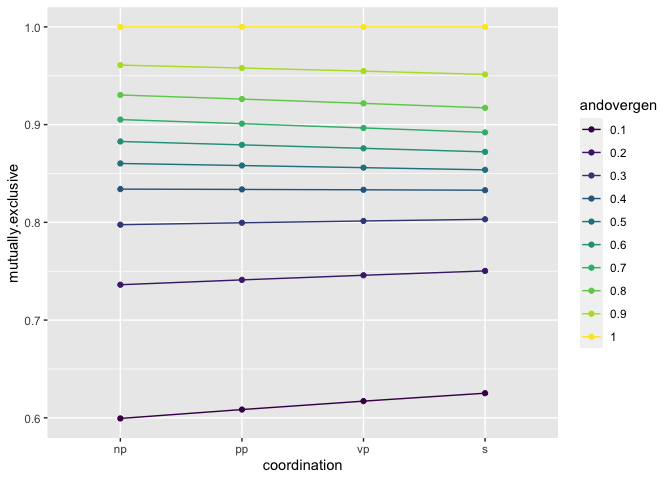
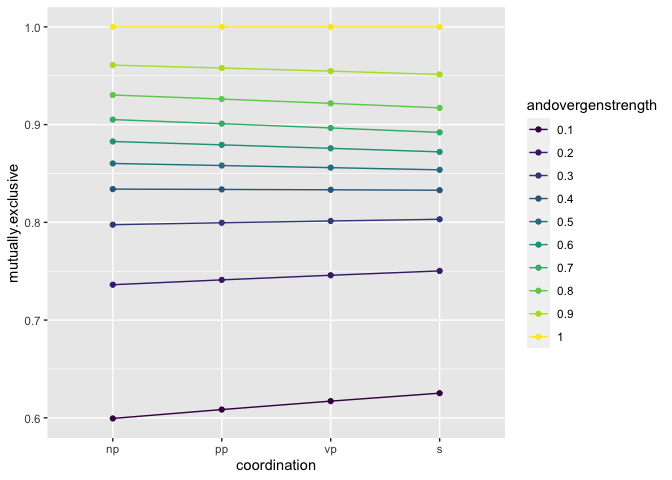
Update wording for lifted coordination model simulations

diff --git a/models/elephants-coord-lifted-simulations.md b/models/elephants-coord-lifted-simulations.md
@@ -26,7 +26,7 @@ and the prior on utterance structure in the form of `andOverGenStrength`
 We assume that there is no cost of movement (`andOverGenStrength` is a
 fixed value for all coordination levels).
 
-Varying the cost of the utterance:
+Varying the cost multiplier:
 
 ![](elephants-coord-lifted-simulations_files/figure-gfm/case1.cost-1.png)<!-- -->
 
@@ -46,9 +46,11 @@ Varying the baseline belief in the AND \> GEN scope:
 
 ![](elephants-coord-lifted-simulations_files/figure-gfm/case1.andovergen-1.png)<!-- -->
 
-The trend is monotonically decreasing for high values of `andOverGen`
-(high likelihood of inverse scope), and monotonically increasing for low
-values of `andOverGen` (low likelihood of inverse scope).
+The trend is monotonically decreasing for high values of
+`andOverGenStrength` (high likelihood of inverse scope for coordination
+levels below S), and monotonically increasing for low values of
+`andOverGenStrength` (low likelihood of inverse scope for coordination
+levels below S).
 
 ## Case 2: movement is costly
 
@@ -87,9 +89,11 @@ overall mutual exclusivity predictions decrease.
 In this case, we assume that movement cannot occur in the case of
 S-coordination such that GEN outscopes AND, that is, the surface scope
 is the only scope allowed (with some very high probability = `.999`).
-Movement in other cases is still allowed, and is costly.
+Movement in other cases is still allowed, and is costly. This is more
+consistent with the assumptions made in
+`elephants-coord-simulations.Rmd`.
 
-Varying the cost of the utterance:
+Varying the cost multiplier:
 
 ![](elephants-coord-lifted-simulations_files/figure-gfm/case3.cost-1.png)<!-- -->
 
@@ -115,7 +119,9 @@ Using the lifted model, we can model an additional trend of a
 monotonically decreasing function from NP -\> S.
 
 With an assumption of no cost of movement, the trend is always
-monotonically decreasing.
+monotonically decreasing, since more costly utterances (higher levels of
+coordination) tend to convey less likely world states (non-mutually
+exclusive).
 
 In the case where movement is costly, we see a monotonically increasing,
 concave trend.
